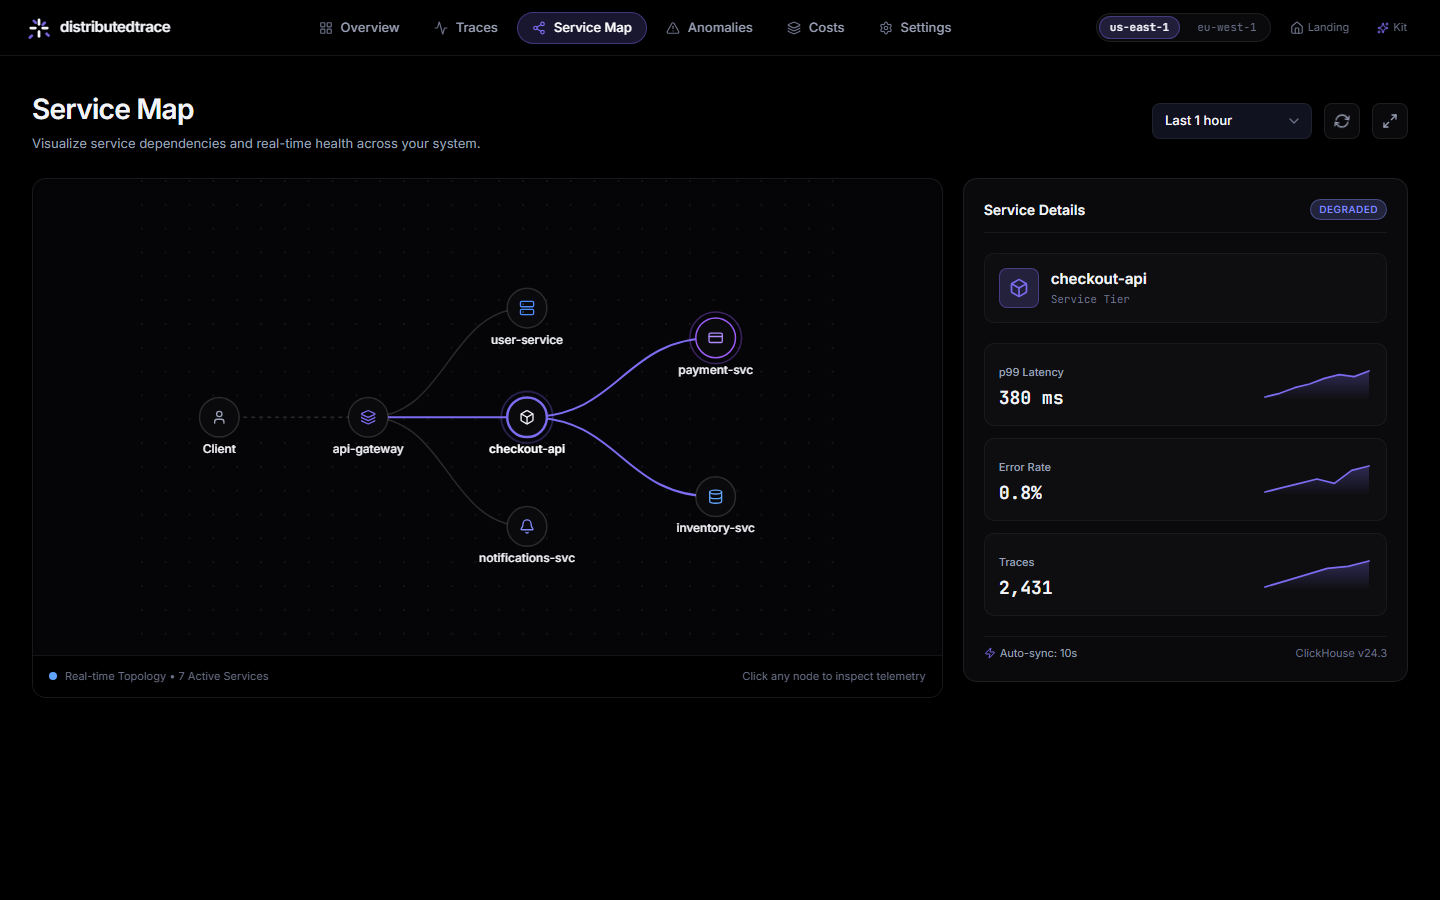
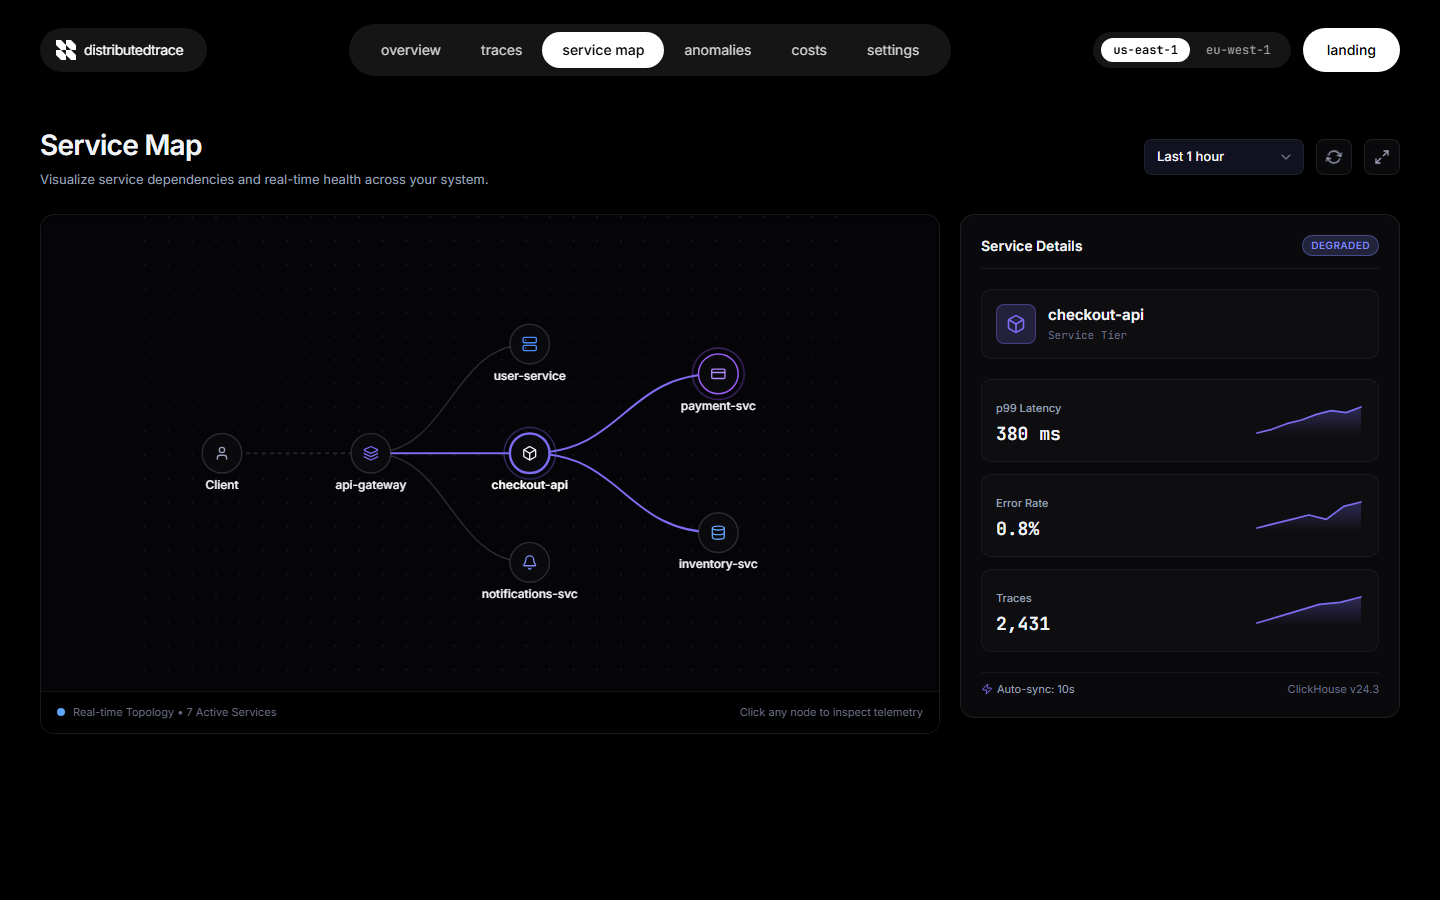
feat(ui): apply landing page navbar capsule design and header styles to dashboard shell

diff --git a/src/components/shell/AppShell.tsx b/src/components/shell/AppShell.tsx
@@ -1,16 +1,5 @@
 import React, { useState } from 'react';
-import { NavLink, Outlet, useLocation } from 'react-router-dom';
-import {
-  LayoutGrid,
-  Activity,
-  Share2,
-  TriangleAlert,
-  Layers,
-  Settings,
-  Sparkles,
-  Home,
-} from 'lucide-react';
-import { BrandLogo } from '../common/BrandLogo';
+import { NavLink, Outlet, useLocation, Link } from 'react-router-dom';
 
 export const AppShell: React.FC = () => {
   const location = useLocation();
@@ -18,56 +7,64 @@ export const AppShell: React.FC = () => {
   const [selectedRegion, setSelectedRegion] = useState<'us-east-1' | 'eu-west-1'>('us-east-1');
 
   const navItems = [
-    { name: 'Overview', path: '/overview', icon: LayoutGrid },
-    { name: 'Traces', path: '/traces', icon: Activity },
-    { name: 'Service Map', path: '/service-map', icon: Share2 },
-    { name: 'Anomalies', path: '/anomalies', icon: TriangleAlert },
-    { name: 'Costs', path: '/costs', icon: Layers },
-    { name: 'Settings', path: '/settings', icon: Settings },
+    { name: 'overview', path: '/overview' },
+    { name: 'traces', path: '/traces' },
+    { name: 'service map', path: '/service-map' },
+    { name: 'anomalies', path: '/anomalies' },
+    { name: 'costs', path: '/costs' },
+    { name: 'settings', path: '/settings' },
   ];
 
   return (
-    <div className="min-h-screen flex flex-col bg-black text-[#f3f4f8] selection:bg-[#7c6cf0]/30 selection:text-white">
-      {/* Top Navigation Bar */}
-      <header className="sticky top-0 z-40 h-14 border-b border-white/[0.08] bg-black/95 backdrop-blur-md px-6 flex items-center justify-between">
-        {/* Brand / Logo */}
-        <div className="flex items-center gap-6">
-          <BrandLogo to="/" size="md" />
-        </div>
+    <div className="min-h-screen flex flex-col bg-black text-[#f3f4f8] selection:bg-white/20 selection:text-white">
+      {/* Top Floating Navbar matching Landing Page design */}
+      <header className="sticky top-0 z-40 w-full px-6 md:px-10 pt-6 pb-2 flex flex-row items-center justify-between gap-4 bg-black/80 backdrop-blur-md">
+        {/* Brand Logo Pill */}
+        <Link
+          to="/"
+          className="bg-neutral-900/90 hover:bg-neutral-900 backdrop-blur rounded-full pl-4 pr-6 py-3 flex items-center gap-2 transition-colors focus:outline-none focus:ring-2 focus:ring-white focus:ring-offset-2 focus:ring-offset-black shrink-0"
+          aria-label="distributedtrace"
+        >
+          <svg viewBox="0 0 256 256" className="h-5 w-5 fill-[#ffffff] shrink-0" aria-hidden="true">
+            <path d="M128 192L128 256L64.5 256L32 223L0 192L0 128L64 128ZM256 192L256 256L192.5 256L160 223L128 192L128 128L192 128ZM128 64L128 128L64.5 128L32 95L0 64L0 0L64 0ZM256 64L256 128L192.5 128L160 95L128 64L128 0L192 0Z" />
+          </svg>
+          <span className="text-white text-sm font-normal tracking-tight">distributedtrace</span>
+        </Link>
 
-        {/* Center Nav Pills */}
-        <nav className="flex items-center gap-1" aria-label="Main Navigation">
+        {/* Center Nav Pills Capsule */}
+        <nav
+          className="flex bg-neutral-900/90 backdrop-blur rounded-full px-3 py-2 items-center overflow-x-auto no-scrollbar max-w-[55vw] lg:max-w-none"
+          aria-label="Dashboard Navigation"
+        >
           {navItems.map((item) => {
-            const Icon = item.icon;
             const isActive = location.pathname.startsWith(item.path);
             return (
               <NavLink
                 key={item.path}
                 to={item.path}
-                className={`h-8 px-3.5 rounded-full text-[13px] font-medium inline-flex items-center gap-2 transition-all duration-150 ${
+                className={`text-sm px-4 md:px-5 py-2 rounded-full whitespace-nowrap transition-colors focus:outline-none focus:ring-2 focus:ring-white focus:ring-offset-2 focus:ring-offset-black ${
                   isActive
-                    ? 'bg-[#7c6cf0]/20 border border-[#7c6cf0]/40 text-white shadow-sm'
-                    : 'text-[#9aa0b5] hover:text-[#f3f4f8] hover:bg-white/[0.04] border border-transparent'
+                    ? 'bg-white text-black font-medium shadow-sm'
+                    : 'text-neutral-300 hover:text-white'
                 }`}
               >
-                <Icon className={`w-3.5 h-3.5 ${isActive ? 'text-[#7c6cf0]' : 'text-[#6b7188]'}`} />
-                <span>{item.name}</span>
+                {item.name}
               </NavLink>
             );
           })}
         </nav>
 
-        {/* Right Actions & Utilities (Region Pills matching reference image) */}
-        <div className="flex items-center gap-2.5">
-          {/* Region selector pills matching mockup */}
-          <div className="hidden sm:flex items-center gap-1.5 bg-[#0a0a0d] p-0.5 rounded-full border border-white/[0.08]">
+        {/* Right Actions (Region Pills Capsule & Landing Button) */}
+        <div className="flex items-center gap-3 shrink-0">
+          {/* Region selector pill */}
+          <div className="hidden sm:flex bg-neutral-900/90 backdrop-blur rounded-full px-2 py-1.5 items-center gap-1">
             <button
               type="button"
               onClick={() => setSelectedRegion('us-east-1')}
-              className={`px-2.5 py-0.5 rounded-full text-[11px] font-mono transition-all ${
+              className={`px-3 py-1 rounded-full text-xs font-mono transition-all focus:outline-none ${
                 selectedRegion === 'us-east-1'
-                  ? 'bg-[#7c6cf0]/20 text-[#f3f4f8] border border-[#7c6cf0]/40 font-semibold'
-                  : 'text-[#6b7188] hover:text-[#9aa0b5] border border-transparent'
+                  ? 'bg-white text-black font-semibold'
+                  : 'text-neutral-400 hover:text-white'
               }`}
             >
               us-east-1
@@ -75,52 +72,40 @@ export const AppShell: React.FC = () => {
             <button
               type="button"
               onClick={() => setSelectedRegion('eu-west-1')}
-              className={`px-2.5 py-0.5 rounded-full text-[11px] font-mono transition-all ${
+              className={`px-3 py-1 rounded-full text-xs font-mono transition-all focus:outline-none ${
                 selectedRegion === 'eu-west-1'
-                  ? 'bg-[#7c6cf0]/20 text-[#f3f4f8] border border-[#7c6cf0]/40 font-semibold'
-                  : 'text-[#6b7188] hover:text-[#9aa0b5] border border-transparent'
+                  ? 'bg-white text-black font-semibold'
+                  : 'text-neutral-400 hover:text-white'
               }`}
             >
               eu-west-1
             </button>
           </div>
 
-          {/* Quick link to Landing Page */}
-          <NavLink
-            to="/"
-            className="text-[12px] text-[#6b7188] hover:text-[#9aa0b5] px-2 py-1 rounded transition-colors inline-flex items-center gap-1 border border-transparent hover:border-white/10"
-            title="Return to Landing Page"
-          >
-            <Home className="w-3.5 h-3.5" />
-            <span className="hidden lg:inline text-[11px]">Landing</span>
-          </NavLink>
-
           {isDemoMode && (
             <span
-              className="inline-flex items-center gap-1.5 px-2 py-0.5 rounded-full text-[10px] font-medium bg-blue-500/10 text-blue-300 border border-blue-500/30"
+              className="hidden xl:inline-flex items-center gap-1.5 px-3 py-1.5 rounded-full text-xs font-medium bg-neutral-900/90 text-neutral-300 border border-white/10"
               title="Running with mock fixture demo dataset"
             >
-              <span className="w-1.5 h-1.5 rounded-full bg-blue-400 animate-pulse" />
-              Demo
+              <span className="w-1.5 h-1.5 rounded-full bg-white animate-pulse" />
+              demo
             </span>
           )}
 
+          {/* Action Button styled identically to "get started" on the landing page */}
           <NavLink
-            to="/_kit"
-            className="text-[12px] text-[#6b7188] hover:text-[#9aa0b5] px-2 py-1 rounded transition-colors inline-flex items-center gap-1 border border-transparent hover:border-white/10"
-            title="Design System Component Gallery"
+            to="/"
+            className="bg-white text-black text-sm px-6 py-3 rounded-full hover:bg-neutral-200 transition-colors font-medium whitespace-nowrap focus:outline-none focus:ring-2 focus:ring-white focus:ring-offset-2 focus:ring-offset-black"
           >
-            <Sparkles className="w-3 h-3 text-[#7c6cf0]" />
-            <span className="hidden md:inline text-[11px]">Kit</span>
+            landing
           </NavLink>
         </div>
       </header>
 
       {/* Main Page Area */}
-      <main className="flex-1 flex flex-col w-full max-w-[1600px] mx-auto p-6 md:p-8">
+      <main className="flex-1 flex flex-col w-full max-w-[1600px] mx-auto p-6 md:p-10 pt-4">
         <Outlet />
       </main>
     </div>
   );
 };
-
